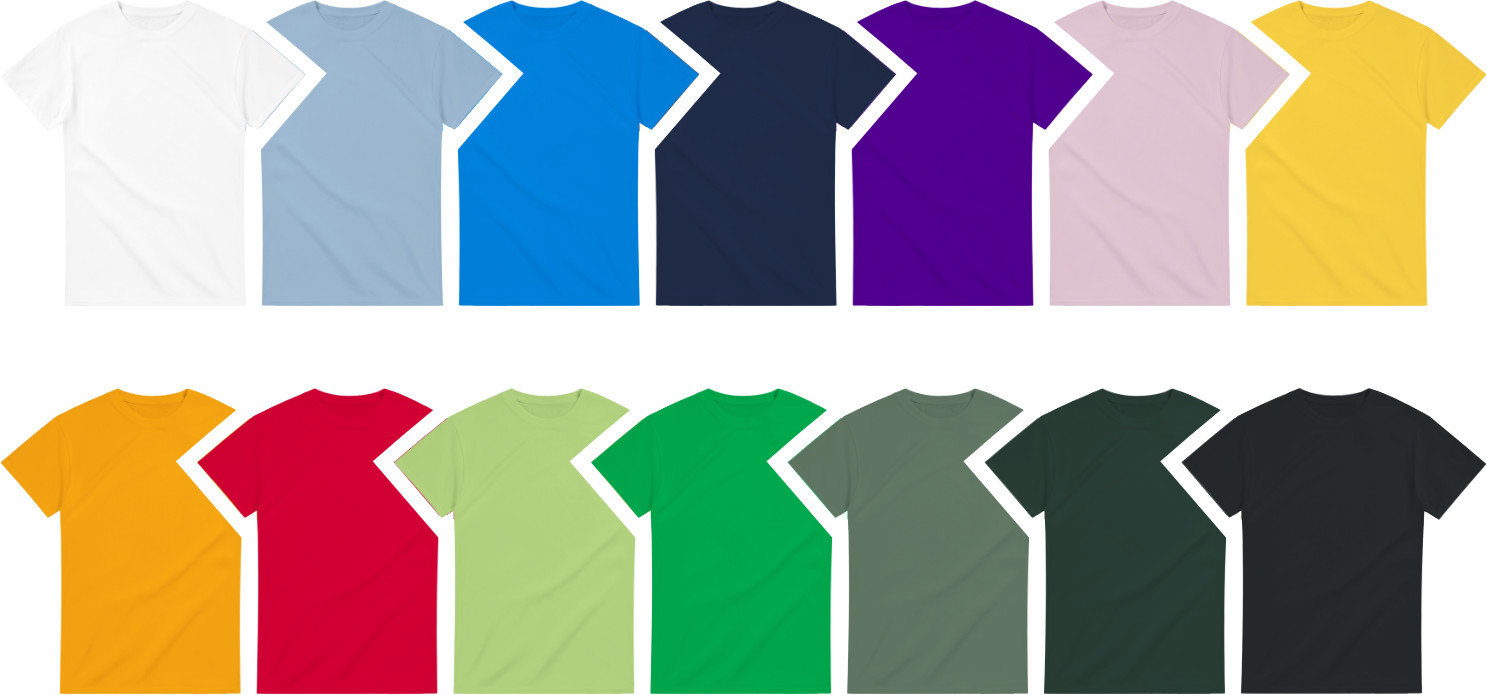
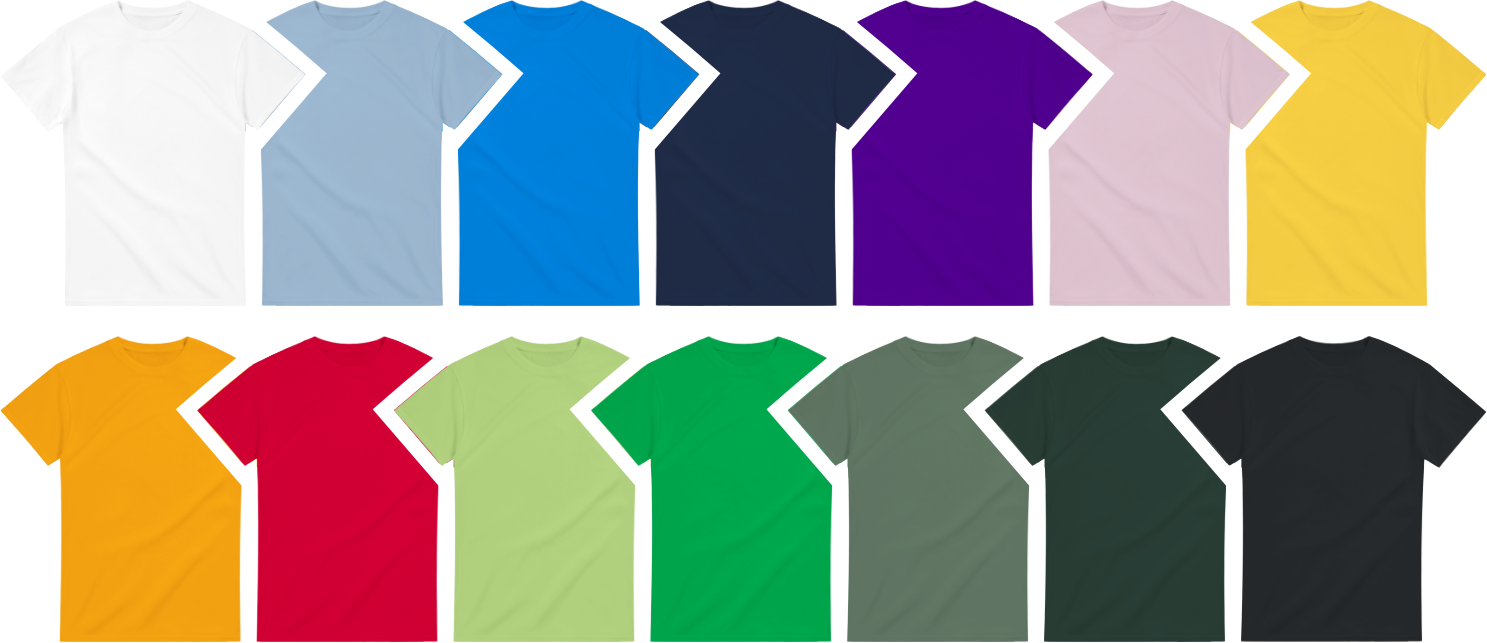
El vector de la franja, refet des de l'SVG nou i amb un guio que el regenera

diff --git a/src/config/vectorFranja.js b/src/config/vectorFranja.js
@@ -3,31 +3,33 @@
  * amb un path independent per samarreta. L'index es el de la casella: 0-6 la
  * filera de dalt i 7-13 la de baix, sempre d'esquerra a dreta.
  *
- * MIDES: el viewBox del vector es 1487 x 695, pero el contingut (les samarretes)
- * arriba nomes fins a y = 694,05, que es l'alcada de la imatge (1487 x 694). Per
- * aixo la referencia d'alcada es VECTOR_FRANJA_CONTINGUT i no el viewBox: si es
- * pren 695, tot queda desquadrat un 0,14% (uns 0,3 px a baix de tot).
+ * MIDES: el viewBox del vector es 1487 x 643, pero el contingut (les samarretes)
+ * arriba nomes fins a y = 642,02, que es l'alcada de la imatge. Per aixo la
+ * referencia d'alcada es VECTOR_FRANJA_CONTINGUT i no el viewBox: si es pren
+ * 643, tot queda desquadrat un 0,15% (uns 1 px a baix de tot).
+ *
+ * Aquest fitxer el refa `scripts/vector-franja.mjs` des del SVG: no s'hi toca a ma.
  */
-export const VECTOR_FRANJA_VIEWBOX = { width: 1487, height: 695 };
+export const VECTOR_FRANJA_VIEWBOX = { width: 1487, height: 643 };
 
 /** Alcada real del contingut del vector (la de la imatge de la franja). */
-export const VECTOR_FRANJA_CONTINGUT = 694.05;
+export const VECTOR_FRANJA_CONTINGUT = 642.02;
 
 export const VECTOR_FRANJA_SAMARRETES = [
-  'M64.7260,306.0250L62.6210,123.1940L47.4100,132.2760L0.0020,75.8660L57.8350,27.8090C78.8120,15.8310 98.9420,5.8730 117.2970,-0.0000L188.1400,-0.0000C200.0420,4.2830 229.3210,17.6470 249.6250,27.8090C268.7070,43.0300 287.3510,58.5060 305.5650,74.2330L257.6030,130.4020L245.6930,122.6350L246.1230,306.0240L64.7250,306.0240Z',
-  'M265.7890,21.6500C282.7820,12.4340 299.0900,4.8340 314.1970,-0.0000L385.0400,-0.0000C396.9420,4.2830 426.2210,17.6470 446.5250,27.8090C465.6070,43.0300 484.2510,58.5060 502.4650,74.2330L454.5030,130.4020L442.5930,122.6350L443.0230,306.0240L261.6250,306.0240L260.9960,251.3910L260.7580,149.8080L326.6590,73.2990C306.8810,55.8260 286.5500,38.6300 265.7880,21.6490Z',
-  'M462.6880,21.6500C479.6810,12.4340 495.9890,4.8340 511.0960,-0.0000L581.9390,-0.0000C593.8410,4.2830 623.1200,17.6470 643.4240,27.8090C662.5060,43.0300 681.1500,58.5060 699.3640,74.2330L651.4020,130.4020L639.4920,122.6350L639.9220,306.0240L458.5240,306.0240L457.8950,251.3910L457.6570,149.8080L523.5580,73.2990C503.7800,55.8260 483.4490,38.6300 462.6870,21.6490Z',
-  'M659.5870,21.6500C676.5800,12.4340 692.8880,4.8340 707.9950,-0.0000L778.8380,-0.0000C790.7400,4.2830 820.0190,17.6470 840.3230,27.8090C859.4050,43.0300 878.0490,58.5060 896.2630,74.2330L848.3010,130.4020L836.3910,122.6350L836.8210,306.0240L655.4230,306.0240L654.7940,251.3910L654.5560,149.8080L720.4570,73.2990C700.6790,55.8260 680.3480,38.6300 659.5860,21.6490Z',
-  'M856.4860,21.6500C873.4790,12.4340 889.7870,4.8340 904.8940,-0.0000L975.7370,-0.0000C987.6390,4.2830 1016.9180,17.6470 1037.2220,27.8090C1056.3040,43.0300 1074.9480,58.5060 1093.1620,74.2330L1045.2000,130.4020L1033.2900,122.6350L1033.7200,306.0240L852.3220,306.0240L851.6930,251.3910L851.4550,149.8080L917.3560,73.2990C897.5780,55.8260 877.2470,38.6300 856.4850,21.6490Z',
-  'M1053.3850,21.6500C1070.3780,12.4340 1086.6860,4.8340 1101.7930,-0.0000L1172.6360,-0.0000C1184.5380,4.2830 1213.8170,17.6470 1234.1210,27.8090C1253.2030,43.0300 1271.8470,58.5060 1290.0610,74.2330L1242.0990,130.4020L1230.1890,122.6350L1230.6190,306.0240L1049.2210,306.0240L1048.5920,251.3910L1048.3540,149.8080L1114.2550,73.2990C1094.4770,55.8260 1074.1460,38.6300 1053.3840,21.6490Z',
-  'M1250.2840,21.6500C1267.2770,12.4340 1283.5850,4.8340 1298.6920,-0.0000L1369.5350,-0.0000C1381.4370,4.2830 1410.7160,17.6470 1431.0200,27.8090C1450.1020,43.0300 1468.7460,58.5060 1486.9600,74.2330L1438.9980,130.4020L1427.0880,122.6350L1427.5180,306.0240L1246.1200,306.0240L1245.4910,251.3910L1245.2530,149.8080L1311.1540,73.2990C1291.3760,55.8260 1271.0450,38.6300 1250.2830,21.6490Z',
-  'M236.6780,409.6750C215.9160,426.6560 195.5850,443.8520 175.8070,461.3250L241.7080,537.8340L241.4700,639.4170L240.8410,694.0500L59.4430,694.0500L59.8730,510.6610L47.9630,518.4280L0.0010,462.2590C18.2150,446.5320 36.8590,431.0560 55.9410,415.8350C76.2450,405.6730 105.5240,392.3080 117.4260,388.0260L188.2690,388.0260C203.3760,392.8590 219.6840,400.4590 236.6770,409.6760Z',
-  'M433.5770,409.6750C412.8150,426.6560 392.4840,443.8520 372.7060,461.3250L438.6070,537.8340L438.3690,639.4170L437.7400,694.0500L256.3420,694.0500L256.7720,510.6610L244.8620,518.4280L196.9000,462.2590C215.1140,446.5320 233.7580,431.0560 252.8400,415.8350C273.1440,405.6730 302.4230,392.3080 314.3250,388.0260L385.1680,388.0260C400.2750,392.8590 416.5830,400.4590 433.5760,409.6760Z',
-  'M630.4760,409.6750C609.7140,426.6560 589.3830,443.8520 569.6050,461.3250L635.5060,537.8340L635.2680,639.4170L634.6390,694.0500L453.2410,694.0500L453.6710,510.6610L441.7610,518.4280L393.7990,462.2590C412.0130,446.5320 430.6570,431.0560 449.7390,415.8350C470.0430,405.6730 499.3220,392.3080 511.2240,388.0260L582.0670,388.0260C597.1740,392.8590 613.4820,400.4590 630.4750,409.6760Z',
-  'M827.3750,409.6750C806.6130,426.6560 786.2820,443.8520 766.5040,461.3250L832.4050,537.8340L832.1670,639.4170L831.5380,694.0500L650.1400,694.0500L650.5700,510.6610L638.6600,518.4280L590.6980,462.2590C608.9120,446.5320 627.5560,431.0560 646.6380,415.8350C666.9420,405.6730 696.2210,392.3080 708.1230,388.0260L778.9660,388.0260C794.0730,392.8590 810.3810,400.4590 827.3740,409.6760Z',
-  'M1024.2740,409.6750C1003.5120,426.6560 983.1810,443.8520 963.4030,461.3250L1029.3040,537.8340L1029.0660,639.4170L1028.4370,694.0500L847.0390,694.0500L847.4690,510.6610L835.5590,518.4280L787.5970,462.2590C805.8110,446.5320 824.4550,431.0560 843.5370,415.8350C863.8410,405.6730 893.1200,392.3080 905.0220,388.0260L975.8650,388.0260C990.9720,392.8590 1007.2800,400.4590 1024.2730,409.6760Z',
-  'M1221.1730,409.6750C1200.4110,426.6560 1180.0800,443.8520 1160.3020,461.3250L1226.2030,537.8340L1225.9650,639.4170L1225.3360,694.0500L1043.9380,694.0500L1044.3680,510.6610L1032.4580,518.4280L984.4960,462.2590C1002.7100,446.5320 1021.3540,431.0560 1040.4360,415.8350C1060.7400,405.6730 1090.0190,392.3080 1101.9210,388.0260L1172.7640,388.0260C1187.8710,392.8590 1204.1790,400.4590 1221.1720,409.6760Z',
-  'M1422.2360,694.0500L1240.8380,694.0500L1241.2680,510.6610L1229.3580,518.4280L1181.3960,462.2590C1199.6100,446.5320 1218.2540,431.0560 1237.3360,415.8350C1257.6400,405.6730 1286.9190,392.3090 1298.8210,388.0260L1369.6640,388.0260C1388.0200,393.8990 1408.1490,403.8570 1429.1260,415.8350L1486.9590,463.8920L1439.5510,520.3020L1424.3400,511.2200L1422.2350,694.0510Z',
+  'M64.7250,306.0250L62.6200,123.1940L47.4090,132.2760L0.0010,75.8660L57.8340,27.8090C78.8110,15.8310 98.9410,5.8730 117.2960,0.0000L188.1390,0.0000C200.0410,4.2830 229.3200,17.6470 249.6240,27.8090C268.7060,43.0300 287.3500,58.5060 305.5640,74.2330L257.6020,130.4020L245.6920,122.6350L246.1220,306.0240L64.7240,306.0240Z',
+  'M265.7880,21.6500C282.7810,12.4340 299.0890,4.8340 314.1960,0.0000L385.0390,0.0000C396.9410,4.2830 426.2200,17.6470 446.5240,27.8090C465.6060,43.0300 484.2500,58.5060 502.4640,74.2330L454.5020,130.4020L442.5920,122.6350L443.0220,306.0240L261.6240,306.0240L260.9950,251.3910L260.7570,149.8080L326.6580,73.2990C306.8800,55.8260 286.5490,38.6300 265.7870,21.6490Z',
+  'M462.6870,21.6500C479.6800,12.4340 495.9880,4.8340 511.0950,0.0000L581.9380,0.0000C593.8400,4.2830 623.1190,17.6470 643.4230,27.8090C662.5050,43.0300 681.1490,58.5060 699.3630,74.2330L651.4010,130.4020L639.4910,122.6350L639.9210,306.0240L458.5230,306.0240L457.8940,251.3910L457.6560,149.8080L523.5570,73.2990C503.7790,55.8260 483.4480,38.6300 462.6860,21.6490Z',
+  'M659.5860,21.6500C676.5790,12.4340 692.8870,4.8340 707.9940,0.0000L778.8370,0.0000C790.7390,4.2830 820.0180,17.6470 840.3220,27.8090C859.4040,43.0300 878.0480,58.5060 896.2620,74.2330L848.3000,130.4020L836.3900,122.6350L836.8200,306.0240L655.4220,306.0240L654.7930,251.3910L654.5550,149.8080L720.4560,73.2990C700.6780,55.8260 680.3470,38.6300 659.5850,21.6490Z',
+  'M856.4850,21.6500C873.4780,12.4340 889.7860,4.8340 904.8930,0.0000L975.7360,0.0000C987.6380,4.2830 1016.9170,17.6470 1037.2210,27.8090C1056.3030,43.0300 1074.9470,58.5060 1093.1610,74.2330L1045.1990,130.4020L1033.2890,122.6350L1033.7190,306.0240L852.3210,306.0240L851.6920,251.3910L851.4540,149.8080L917.3550,73.2990C897.5770,55.8260 877.2460,38.6300 856.4840,21.6490Z',
+  'M1053.3840,21.6500C1070.3770,12.4340 1086.6850,4.8340 1101.7920,0.0000L1172.6350,0.0000C1184.5370,4.2830 1213.8160,17.6470 1234.1200,27.8090C1253.2020,43.0300 1271.8460,58.5060 1290.0600,74.2330L1242.0980,130.4020L1230.1880,122.6350L1230.6180,306.0240L1049.2200,306.0240L1048.5910,251.3910L1048.3530,149.8080L1114.2540,73.2990C1094.4760,55.8260 1074.1450,38.6300 1053.3830,21.6490Z',
+  'M1250.2830,21.6500C1267.2760,12.4340 1283.5840,4.8340 1298.6910,0.0000L1369.5340,0.0000C1381.4360,4.2830 1410.7150,17.6470 1431.0190,27.8090C1450.1010,43.0300 1468.7450,58.5060 1486.9590,74.2330L1438.9970,130.4020L1427.0870,122.6350L1427.5170,306.0240L1246.1190,306.0240L1245.4900,251.3910L1245.2520,149.8080L1311.1530,73.2990C1291.3750,55.8260 1271.0440,38.6300 1250.2820,21.6490Z',
+  'M236.6770,357.6500C215.9150,374.6310 195.5840,391.8270 175.8060,409.3000L241.7070,485.8090L241.4690,587.3920L240.8400,642.0250L59.4420,642.0250L59.8720,458.6360L47.9620,466.4030L0.0000,410.2340C18.2140,394.5070 36.8580,379.0310 55.9400,363.8100C76.2440,353.6480 105.5230,340.2830 117.4250,336.0010L188.2680,336.0010C203.3750,340.8340 219.6830,348.4340 236.6760,357.6510Z',
+  'M433.5760,357.6500C412.8140,374.6310 392.4830,391.8270 372.7050,409.3000L438.6060,485.8090L438.3680,587.3920L437.7390,642.0250L256.3410,642.0250L256.7710,458.6360L244.8610,466.4030L196.8990,410.2340C215.1130,394.5070 233.7570,379.0310 252.8390,363.8100C273.1430,353.6480 302.4220,340.2830 314.3240,336.0010L385.1670,336.0010C400.2740,340.8340 416.5820,348.4340 433.5750,357.6510Z',
+  'M630.4750,357.6500C609.7130,374.6310 589.3820,391.8270 569.6040,409.3000L635.5050,485.8090L635.2670,587.3920L634.6380,642.0250L453.2400,642.0250L453.6700,458.6360L441.7600,466.4030L393.7980,410.2340C412.0120,394.5070 430.6560,379.0310 449.7380,363.8100C470.0420,353.6480 499.3210,340.2830 511.2230,336.0010L582.0660,336.0010C597.1730,340.8340 613.4810,348.4340 630.4740,357.6510Z',
+  'M827.3740,357.6500C806.6120,374.6310 786.2810,391.8270 766.5030,409.3000L832.4040,485.8090L832.1660,587.3920L831.5370,642.0250L650.1390,642.0250L650.5690,458.6360L638.6590,466.4030L590.6970,410.2340C608.9110,394.5070 627.5550,379.0310 646.6370,363.8100C666.9410,353.6480 696.2200,340.2830 708.1220,336.0010L778.9650,336.0010C794.0720,340.8340 810.3800,348.4340 827.3730,357.6510Z',
+  'M1024.2730,357.6500C1003.5110,374.6310 983.1800,391.8270 963.4020,409.3000L1029.3030,485.8090L1029.0650,587.3920L1028.4360,642.0250L847.0380,642.0250L847.4680,458.6360L835.5580,466.4030L787.5960,410.2340C805.8100,394.5070 824.4540,379.0310 843.5360,363.8100C863.8400,353.6480 893.1190,340.2830 905.0210,336.0010L975.8640,336.0010C990.9710,340.8340 1007.2790,348.4340 1024.2720,357.6510Z',
+  'M1221.1720,357.6500C1200.4100,374.6310 1180.0790,391.8270 1160.3010,409.3000L1226.2020,485.8090L1225.9640,587.3920L1225.3350,642.0250L1043.9370,642.0250L1044.3670,458.6360L1032.4570,466.4030L984.4950,410.2340C1002.7090,394.5070 1021.3530,379.0310 1040.4350,363.8100C1060.7390,353.6480 1090.0180,340.2830 1101.9200,336.0010L1172.7630,336.0010C1187.8700,340.8340 1204.1780,348.4340 1221.1710,357.6510Z',
+  'M1422.2350,642.0250L1240.8370,642.0250L1241.2670,458.6360L1229.3570,466.4030L1181.3950,410.2340C1199.6090,394.5070 1218.2530,379.0310 1237.3350,363.8100C1257.6390,353.6480 1286.9180,340.2840 1298.8200,336.0010L1369.6630,336.0010C1388.0190,341.8740 1408.1480,351.8320 1429.1250,363.8100L1486.9580,411.8670L1439.5500,468.2770L1424.3390,459.1950L1422.2340,642.0260Z',
 ];
 
 /** La caixa de cada samarreta, en coordenades del vector. */
@@ -35,35 +37,35 @@ export const VECTOR_FRANJA_CAIXES = [
   { x: 0, y: 0, width: 305.56, height: 306.02 },
   { x: 260.76, y: 0, width: 241.71, height: 306.02 },
   { x: 457.66, y: 0, width: 241.71, height: 306.02 },
-  { x: 654.56, y: 0, width: 241.71, height: 306.02 },
+  { x: 654.55, y: 0, width: 241.71, height: 306.02 },
   { x: 851.45, y: 0, width: 241.71, height: 306.02 },
   { x: 1048.35, y: 0, width: 241.71, height: 306.02 },
   { x: 1245.25, y: 0, width: 241.71, height: 306.02 },
-  { x: 0, y: 388.03, width: 241.71, height: 306.02 },
-  { x: 196.9, y: 388.03, width: 241.71, height: 306.02 },
-  { x: 393.8, y: 388.03, width: 241.71, height: 306.02 },
-  { x: 590.7, y: 388.03, width: 241.71, height: 306.02 },
-  { x: 787.6, y: 388.03, width: 241.71, height: 306.02 },
-  { x: 984.5, y: 388.03, width: 241.71, height: 306.02 },
-  { x: 1181.4, y: 388.03, width: 305.56, height: 306.02 },
+  { x: 0, y: 336, width: 241.71, height: 306.02 },
+  { x: 196.9, y: 336, width: 241.71, height: 306.02 },
+  { x: 393.8, y: 336, width: 241.71, height: 306.02 },
+  { x: 590.7, y: 336, width: 241.71, height: 306.02 },
+  { x: 787.6, y: 336, width: 241.71, height: 306.02 },
+  { x: 984.5, y: 336, width: 241.71, height: 306.02 },
+  { x: 1181.39, y: 336, width: 305.56, height: 306.03 },
 ]
 
-/** Els mateixos paths amb coordenades 0-1 (x/1487, y/694,05) per al clipPath. */
+/** Els mateixos paths amb coordenades 0-1 (x/1487, y/642,02) per al clipPath. */
 export const VECTOR_FRANJA_SAMARRETES_01 = [
-  'M0.043528,0.440926L0.042112,0.177500L0.031883,0.190586L0.000001,0.109309L0.038894,0.040068C0.053001,0.022810 0.066538,0.008462 0.078882,-0.000000L0.126523,-0.000000C0.134527,0.006171 0.154217,0.025426 0.167872,0.040068C0.180704,0.061998 0.193242,0.084297 0.205491,0.106956L0.173237,0.187886L0.165227,0.176695L0.165516,0.440925L0.043527,0.440925Z',
-  'M0.178742,0.031194C0.190169,0.017915 0.201137,0.006965 0.211296,-0.000000L0.258937,-0.000000C0.266941,0.006171 0.286631,0.025426 0.300286,0.040068C0.313118,0.061998 0.325656,0.084297 0.337905,0.106956L0.305651,0.187886L0.297642,0.176695L0.297931,0.440925L0.175941,0.440925L0.175518,0.362209L0.175358,0.215846L0.219677,0.105611C0.206376,0.080435 0.192703,0.055659 0.178741,0.031192Z',
-  'M0.311155,0.031194C0.322583,0.017915 0.333550,0.006965 0.343709,-0.000000L0.391351,-0.000000C0.399355,0.006171 0.419045,0.025426 0.432699,0.040068C0.445532,0.061998 0.458070,0.084297 0.470319,0.106956L0.438065,0.187886L0.430055,0.176695L0.430344,0.440925L0.308355,0.440925L0.307932,0.362209L0.307772,0.215846L0.352090,0.105611C0.338790,0.080435 0.325117,0.055659 0.311155,0.031192Z',
-  'M0.443569,0.031194C0.454997,0.017915 0.465964,0.006965 0.476123,-0.000000L0.523765,-0.000000C0.531769,0.006171 0.551459,0.025426 0.565113,0.040068C0.577946,0.061998 0.590484,0.084297 0.602732,0.106956L0.570478,0.187886L0.562469,0.176695L0.562758,0.440925L0.440769,0.440925L0.440346,0.362209L0.440186,0.215846L0.484504,0.105611C0.471203,0.080435 0.457531,0.055659 0.443568,0.031192Z',
-  'M0.575983,0.031194C0.587410,0.017915 0.598377,0.006965 0.608537,-0.000000L0.656178,-0.000000C0.664182,0.006171 0.683872,0.025426 0.697527,0.040068C0.710359,0.061998 0.722897,0.084297 0.735146,0.106956L0.702892,0.187886L0.694882,0.176695L0.695171,0.440925L0.573182,0.440925L0.572759,0.362209L0.572599,0.215846L0.616917,0.105611C0.603617,0.080435 0.589944,0.055659 0.575982,0.031192Z',
-  'M0.708396,0.031194C0.719824,0.017915 0.730791,0.006965 0.740950,-0.000000L0.788592,-0.000000C0.796596,0.006171 0.816286,0.025426 0.829940,0.040068C0.842773,0.061998 0.855311,0.084297 0.867560,0.106956L0.835305,0.187886L0.827296,0.176695L0.827585,0.440925L0.705596,0.440925L0.705173,0.362209L0.705013,0.215846L0.749331,0.105611C0.736030,0.080435 0.722358,0.055659 0.708395,0.031192Z',
-  'M0.840810,0.031194C0.852237,0.017915 0.863204,0.006965 0.873364,-0.000000L0.921005,-0.000000C0.929009,0.006171 0.948699,0.025426 0.962354,0.040068C0.975186,0.061998 0.987724,0.084297 0.999973,0.106956L0.967719,0.187886L0.959709,0.176695L0.959999,0.440925L0.838009,0.440925L0.837586,0.362209L0.837426,0.215846L0.881744,0.105611C0.868444,0.080435 0.854771,0.055659 0.840809,0.031192Z',
-  'M0.159165,0.590267C0.145202,0.614734 0.131530,0.639510 0.118229,0.664686L0.162547,0.774921L0.162387,0.921284L0.161964,1.000000L0.039975,1.000000L0.040264,0.735770L0.032255,0.746961L0.000001,0.666031C0.012249,0.643372 0.024787,0.621073 0.037620,0.599143C0.051274,0.584501 0.070964,0.565245 0.078968,0.559075L0.126610,0.559075C0.136769,0.566038 0.147736,0.576989 0.159164,0.590269Z',
-  'M0.291578,0.590267C0.277616,0.614734 0.263944,0.639510 0.250643,0.664686L0.294961,0.774921L0.294801,0.921284L0.294378,1.000000L0.172389,1.000000L0.172678,0.735770L0.164668,0.746961L0.132414,0.666031C0.144663,0.643372 0.157201,0.621073 0.170034,0.599143C0.183688,0.584501 0.203378,0.565245 0.211382,0.559075L0.259024,0.559075C0.269183,0.566038 0.280150,0.576989 0.291578,0.590269Z',
-  'M0.423992,0.590267C0.410030,0.614734 0.396357,0.639510 0.383056,0.664686L0.427375,0.774921L0.427215,0.921284L0.426792,1.000000L0.304802,1.000000L0.305091,0.735770L0.297082,0.746961L0.264828,0.666031C0.277077,0.643372 0.289615,0.621073 0.302447,0.599143C0.316102,0.584501 0.335792,0.565245 0.343796,0.559075L0.391437,0.559075C0.401597,0.566038 0.412564,0.576989 0.423991,0.590269Z',
-  'M0.556406,0.590267C0.542443,0.614734 0.528771,0.639510 0.515470,0.664686L0.559788,0.774921L0.559628,0.921284L0.559205,1.000000L0.437216,1.000000L0.437505,0.735770L0.429496,0.746961L0.397241,0.666031C0.409490,0.643372 0.422028,0.621073 0.434861,0.599143C0.448515,0.584501 0.468205,0.565245 0.476209,0.559075L0.523851,0.559075C0.534010,0.566038 0.544977,0.576989 0.556405,0.590269Z',
-  'M0.688819,0.590267C0.674857,0.614734 0.661184,0.639510 0.647884,0.664686L0.692202,0.774921L0.692042,0.921284L0.691619,1.000000L0.569629,1.000000L0.569919,0.735770L0.561909,0.746961L0.529655,0.666031C0.541904,0.643372 0.554442,0.621073 0.567274,0.599143C0.580929,0.584501 0.600619,0.565245 0.608623,0.559075L0.656264,0.559075C0.666424,0.566038 0.677391,0.576989 0.688818,0.590269Z',
-  'M0.821233,0.590267C0.807270,0.614734 0.793598,0.639510 0.780297,0.664686L0.824615,0.774921L0.824455,0.921284L0.824032,1.000000L0.702043,1.000000L0.702332,0.735770L0.694323,0.746961L0.662069,0.666031C0.674317,0.643372 0.686855,0.621073 0.699688,0.599143C0.713342,0.584501 0.733032,0.565245 0.741036,0.559075L0.788678,0.559075C0.798837,0.566038 0.809804,0.576989 0.821232,0.590269Z',
-  'M0.956447,1.000000L0.834457,1.000000L0.834746,0.735770L0.826737,0.746961L0.794483,0.666031C0.806732,0.643372 0.819270,0.621073 0.832102,0.599143C0.845757,0.584501 0.865447,0.565246 0.873451,0.559075L0.921092,0.559075C0.933436,0.567537 0.946973,0.581885 0.961080,0.599143L0.999972,0.668384L0.968091,0.749661L0.957861,0.736575L0.956446,1.000001Z',
+  'M0.0435,0.4767L0.0421,0.1919L0.0319,0.2060L0.0000,0.1182L0.0389,0.0433C0.0530,0.0247 0.0665,0.0091 0.0789,0.0000L0.1265,0.0000C0.1345,0.0067 0.1542,0.0275 0.1679,0.0433C0.1807,0.0670 0.1932,0.0911 0.2055,0.1156L0.1732,0.2031L0.1652,0.1910L0.1655,0.4767L0.0435,0.4767Z',
+  'M0.1787,0.0337C0.1902,0.0194 0.2011,0.0075 0.2113,0.0000L0.2589,0.0000C0.2669,0.0067 0.2866,0.0275 0.3003,0.0433C0.3131,0.0670 0.3257,0.0911 0.3379,0.1156L0.3057,0.2031L0.2976,0.1910L0.2979,0.4767L0.1759,0.4767L0.1755,0.3916L0.1754,0.2333L0.2197,0.1142C0.2064,0.0870 0.1927,0.0602 0.1787,0.0337Z',
+  'M0.3112,0.0337C0.3226,0.0194 0.3335,0.0075 0.3437,0.0000L0.3914,0.0000C0.3994,0.0067 0.4190,0.0275 0.4327,0.0433C0.4455,0.0670 0.4581,0.0911 0.4703,0.1156L0.4381,0.2031L0.4301,0.1910L0.4303,0.4767L0.3084,0.4767L0.3079,0.3916L0.3078,0.2333L0.3521,0.1142C0.3388,0.0870 0.3251,0.0602 0.3112,0.0337Z',
+  'M0.4436,0.0337C0.4550,0.0194 0.4660,0.0075 0.4761,0.0000L0.5238,0.0000C0.5318,0.0067 0.5515,0.0275 0.5651,0.0433C0.5779,0.0670 0.5905,0.0911 0.6027,0.1156L0.5705,0.2031L0.5625,0.1910L0.5628,0.4767L0.4408,0.4767L0.4403,0.3916L0.4402,0.2333L0.4845,0.1142C0.4712,0.0870 0.4575,0.0602 0.4436,0.0337Z',
+  'M0.5760,0.0337C0.5874,0.0194 0.5984,0.0075 0.6085,0.0000L0.6562,0.0000C0.6642,0.0067 0.6839,0.0275 0.6975,0.0433C0.7104,0.0670 0.7229,0.0911 0.7351,0.1156L0.7029,0.2031L0.6949,0.1910L0.6952,0.4767L0.5732,0.4767L0.5728,0.3916L0.5726,0.2333L0.6169,0.1142C0.6036,0.0870 0.5899,0.0602 0.5760,0.0337Z',
+  'M0.7084,0.0337C0.7198,0.0194 0.7308,0.0075 0.7409,0.0000L0.7886,0.0000C0.7966,0.0067 0.8163,0.0275 0.8299,0.0433C0.8428,0.0670 0.8553,0.0911 0.8676,0.1156L0.8353,0.2031L0.8273,0.1910L0.8276,0.4767L0.7056,0.4767L0.7052,0.3916L0.7050,0.2333L0.7493,0.1142C0.7360,0.0870 0.7224,0.0602 0.7084,0.0337Z',
+  'M0.8408,0.0337C0.8522,0.0194 0.8632,0.0075 0.8734,0.0000L0.9210,0.0000C0.9290,0.0067 0.9487,0.0275 0.9624,0.0433C0.9752,0.0670 0.9877,0.0911 1.0000,0.1156L0.9677,0.2031L0.9597,0.1910L0.9600,0.4767L0.8380,0.4767L0.8376,0.3916L0.8374,0.2333L0.8817,0.1142C0.8684,0.0870 0.8548,0.0602 0.8408,0.0337Z',
+  'M0.1592,0.5571C0.1452,0.5835 0.1315,0.6103 0.1182,0.6375L0.1625,0.7567L0.1624,0.9149L0.1620,1.0000L0.0400,1.0000L0.0403,0.7144L0.0323,0.7265L0.0000,0.6390C0.0122,0.6145 0.0248,0.5904 0.0376,0.5667C0.0513,0.5508 0.0710,0.5300 0.0790,0.5233L0.1266,0.5233C0.1368,0.5309 0.1477,0.5427 0.1592,0.5571Z',
+  'M0.2916,0.5571C0.2776,0.5835 0.2639,0.6103 0.2506,0.6375L0.2950,0.7567L0.2948,0.9149L0.2944,1.0000L0.1724,1.0000L0.1727,0.7144L0.1647,0.7265L0.1324,0.6390C0.1447,0.6145 0.1572,0.5904 0.1700,0.5667C0.1837,0.5508 0.2034,0.5300 0.2114,0.5233L0.2590,0.5233C0.2692,0.5309 0.2801,0.5427 0.2916,0.5571Z',
+  'M0.4240,0.5571C0.4100,0.5835 0.3964,0.6103 0.3831,0.6375L0.4274,0.7567L0.4272,0.9149L0.4268,1.0000L0.3048,1.0000L0.3051,0.7144L0.2971,0.7265L0.2648,0.6390C0.2771,0.6145 0.2896,0.5904 0.3024,0.5667C0.3161,0.5508 0.3358,0.5300 0.3438,0.5233L0.3914,0.5233C0.4016,0.5309 0.4126,0.5427 0.4240,0.5571Z',
+  'M0.5564,0.5571C0.5424,0.5835 0.5288,0.6103 0.5155,0.6375L0.5598,0.7567L0.5596,0.9149L0.5592,1.0000L0.4372,1.0000L0.4375,0.7144L0.4295,0.7265L0.3972,0.6390C0.4095,0.6145 0.4220,0.5904 0.4349,0.5667C0.4485,0.5508 0.4682,0.5300 0.4762,0.5233L0.5239,0.5233C0.5340,0.5309 0.5450,0.5427 0.5564,0.5571Z',
+  'M0.6888,0.5571C0.6749,0.5835 0.6612,0.6103 0.6479,0.6375L0.6922,0.7567L0.6920,0.9149L0.6916,1.0000L0.5696,1.0000L0.5699,0.7144L0.5619,0.7265L0.5297,0.6390C0.5419,0.6145 0.5544,0.5904 0.5673,0.5667C0.5809,0.5508 0.6006,0.5300 0.6086,0.5233L0.6563,0.5233C0.6664,0.5309 0.6774,0.5427 0.6888,0.5571Z',
+  'M0.8212,0.5571C0.8073,0.5835 0.7936,0.6103 0.7803,0.6375L0.8246,0.7567L0.8245,0.9149L0.8240,1.0000L0.7020,1.0000L0.7023,0.7144L0.6943,0.7265L0.6621,0.6390C0.6743,0.6145 0.6869,0.5904 0.6997,0.5667C0.7133,0.5508 0.7330,0.5300 0.7410,0.5233L0.7887,0.5233C0.7988,0.5309 0.8098,0.5427 0.8212,0.5571Z',
+  'M0.9564,1.0000L0.8345,1.0000L0.8347,0.7144L0.8267,0.7265L0.7945,0.6390C0.8067,0.6145 0.8193,0.5904 0.8321,0.5667C0.8458,0.5508 0.8654,0.5300 0.8734,0.5233L0.9211,0.5233C0.9334,0.5325 0.9470,0.5480 0.9611,0.5667L1.0000,0.6415L0.9681,0.7294L0.9579,0.7152L0.9564,1.0000Z',
 ];
 
 /**
